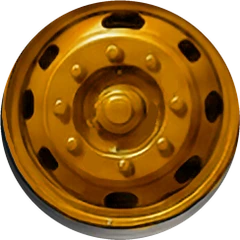
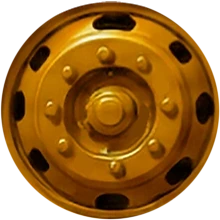
About: tyres roll with fixed light

diff --git a/about.html b/about.html
@@ -86,15 +86,17 @@
             <span class="cboard__t">Enough of scroll?<br>Let&rsquo;s roll!</span>
             <a class="cb cb--w" href="mailto:ashfaquesalahudeen333@gmail.com" style="--l:14.2%;--cy:36.3%" aria-label="Email"><img src="assets/about/connect/email-normal.webp" alt=""><img class="h" src="assets/about/connect/email-hover.webp" alt=""></a>
             <a class="cb cb--w" href="https://wa.me/9496625822" target="_blank" rel="noopener" style="--l:51.4%;--cy:36.3%" aria-label="WhatsApp"><img src="assets/about/connect/whatsapp-normal.webp" alt=""><img class="h" src="assets/about/connect/whatsapp-hover.webp" alt=""></a>
-            <a class="cb" href="https://www.instagram.com/faque.it" target="_blank" rel="noopener" style="--l:13.5%;--cy:51%" aria-label="Instagram"><img src="assets/about/connect/insta-normal.webp" alt=""><img class="h" src="assets/about/connect/insta-hover.webp" alt=""></a>
-            <a class="cb" href="https://www.behance.net/ashfaqusalahud" target="_blank" rel="noopener" style="--l:38.1%;--cy:51%" aria-label="Behance"><img src="assets/about/connect/behance-normal.webp" alt=""><img class="h" src="assets/about/connect/behance-hover.webp" alt=""></a>
-            <a class="cb" href="https://www.linkedin.com/in/ashfaquesalahudeen" target="_blank" rel="noopener" style="--l:62.7%;--cy:51%" aria-label="LinkedIn"><img src="assets/about/connect/linkedin-normal.webp" alt=""><img class="h" src="assets/about/connect/linkedin-hover.webp" alt=""></a>
+            <a class="cb" href="https://www.instagram.com/faque.it" target="_blank" rel="noopener" style="--l:14.2%;--cy:51%" aria-label="Instagram"><img src="assets/about/connect/insta-normal.webp" alt=""><img class="h" src="assets/about/connect/insta-hover.webp" alt=""></a>
+            <a class="cb" href="https://www.behance.net/ashfaqusalahud" target="_blank" rel="noopener" style="--l:39%;--cy:51%" aria-label="Behance"><img src="assets/about/connect/behance-normal.webp" alt=""><img class="h" src="assets/about/connect/behance-hover.webp" alt=""></a>
+            <a class="cb" href="https://www.linkedin.com/in/ashfaquesalahudeen" target="_blank" rel="noopener" style="--l:63.8%;--cy:51%" aria-label="LinkedIn"><img src="assets/about/connect/linkedin-normal.webp" alt=""><img class="h" src="assets/about/connect/linkedin-hover.webp" alt=""></a>
           </div>
         </div>
         <div class="about__road"><div class="about__truck"><div class="truckbox">
           <img class="truckbox__body" src="assets/about/truck.webp" alt="Ashfaque waving from the cab of a painted truck whose load carries his education, experience, positions of responsibility and achievements, with a toolbox of design apps on the side" width="2400" height="967" decoding="async">
-          <img class="wheel wheel--f" src="assets/about/wheel-f.webp" alt="" aria-hidden="true" decoding="async">
-          <img class="wheel wheel--r" src="assets/about/wheel-r.webp" alt="" aria-hidden="true" decoding="async">
+          <img class="wheel wheel--tf" src="assets/about/tyre-f-even.webp" alt="" aria-hidden="true" decoding="async">
+          <img class="wheel-light wheel--tf" src="assets/about/tyre-f-light.webp" alt="" aria-hidden="true" decoding="async">
+          <img class="wheel wheel--tr" src="assets/about/tyre-r-even.webp" alt="" aria-hidden="true" decoding="async">
+          <img class="wheel-light wheel--tr" src="assets/about/tyre-r-light.webp" alt="" aria-hidden="true" decoding="async">
           <div class="tools" id="tools">
             <button class="tb" type="button" aria-expanded="false" aria-controls="ticons" aria-label="Toolbox: the software I work with"><img src="assets/about/toolbox-hover.webp" alt="" decoding="async"></button>
             <ul class="ticons" id="ticons" aria-label="Software I work with">
@@ -105,7 +107,7 @@
             <li style="--i:4;--x:1381;--y:628"><img src="assets/about/icons/adobe-after-effects.webp" alt="" loading="lazy" decoding="async"><span>Adobe After Effects</span></li>
             <li style="--i:5;--x:1455;--y:628"><img src="assets/about/icons/adobe-indesign.webp" alt="" loading="lazy" decoding="async"><span>Adobe InDesign</span></li>
             <li style="--i:6;--x:1085;--y:725"><img src="assets/about/icons/fontlab.webp" alt="" loading="lazy" decoding="async"><span>FontLab</span></li>
-            <li style="--i:7;--x:1159;--y:725"><img src="assets/about/icons/framer.webp" alt="" loading="lazy" decoding="async"><span>Framer</span></li>
+            <li style="--i:7;--x:1159;--y:725"><img src="assets/about/icons/sketchup.webp" alt="" loading="lazy" decoding="async"><span>SketchUp</span></li>
             <li style="--i:8;--x:1233;--y:725"><img src="assets/about/icons/microsoft-office.webp" alt="" loading="lazy" decoding="async"><span>Microsoft Office</span></li>
             <li style="--i:9;--x:1307;--y:725"><img src="assets/about/icons/miro.webp" alt="" loading="lazy" decoding="async"><span>Miro</span></li>
             <li style="--i:10;--x:1381;--y:725"><img src="assets/about/icons/procreate.webp" alt="" loading="lazy" decoding="async"><span>Procreate</span></li>

diff --git a/css/style.css b/css/style.css
@@ -451,8 +451,15 @@ a { color: inherit; text-decoration: none; -webkit-tap-highlight-color: transpar
 .truckbox { --k: calc(var(--tw) / 2400); position: relative; }
 .truckbox__body { width: 100%; height: auto; display: block; }
 .wheel { position: absolute; height: auto; aspect-ratio: 1; border-radius: 50%; rotate: calc((var(--ap) + var(--ep) * 1.1) * -1500deg); }
-.wheel--f { left: 13.292%; top: 72.492%; width: 6.75%; }
-.wheel--r { left: 68.98%; top: 72.492%; width: 6.75%; }
+/* each alloy image is cut as a circle centred on its hub, and placed on the tyre's hub, so it spins true */
+.wheel--f { left: 13.496%; top: 72.234%; width: 6.25%; }
+.wheel--r { left: 69.158%; top: 72.296%; width: 6.25%; }
+/* whole tyre + alloy turning together (cut from the truck art, centred on the hub).
+   To go back to alloy-only: in about.html use wheel--f / wheel--r with wheel-f.webp / wheel-r.webp */
+.wheel--tf { left: 11.371%; top: 66.960%; width: 10.5%; }
+.wheel--tr { left: 67.033%; top: 67.022%; width: 10.5%; }
+/* the tyre's light & shadow sit on a layer that does NOT turn, so the shine stays put while the tread rolls */
+.wheel-light { position: absolute; height: auto; aspect-ratio: 1; pointer-events: none; }
 /* interactive toolbox: brightens on hover and the apps come out and line up beside it */
 .tools { position: absolute; inset: 0; pointer-events: none; }
 .tb { position: absolute; left: 35.14%; top: 66.69%; width: 8.89%; aspect-ratio: 320 / 210; padding: 0; border: 0; background: none; cursor: pointer; pointer-events: auto; -webkit-tap-highlight-color: transparent; border-radius: 4%; }
@@ -627,14 +634,14 @@ a { color: inherit; text-decoration: none; -webkit-tap-highlight-color: transpar
 .about.passed .cboard__links { pointer-events: auto; }
 .cboard__links { pointer-events: none; }
 .cboard__t { position: absolute; left: 0; width: 100%; top: 20.5%; translate: 0 -50%; text-align: center; font: 800 4.3cqw/1.12 "Anek Latin", "Arial Narrow", system-ui, sans-serif; font-stretch: 125%; text-transform: uppercase; color: #3b1f0b; letter-spacing: .02em; }
-.cb { position: absolute; left: var(--l); top: var(--cy); translate: 0 -50%; width: 22.6%; display: block; -webkit-tap-highlight-color: transparent; transition: transform .15s cubic-bezier(.2,.8,.2,1); }
+.cb { position: absolute; left: var(--l); top: var(--cy); translate: 0 -50%; width: 22.8%; display: block; -webkit-tap-highlight-color: transparent; }
 .cb--w { width: 35.2%; }
 .cb img { display: block; width: 100%; height: auto; }
 .cb .h { position: absolute; inset: 0; opacity: 0; }
+.cb img { transition: opacity .15s ease; }
 .cb:hover .h, .cb:focus-visible .h, .cb:active .h { opacity: 1; }
 .cb:hover > img:not(.h), .cb:focus-visible > img:not(.h), .cb:active > img:not(.h) { opacity: 0; }
-.cb:hover, .cb:focus-visible { transform: translateY(-2%) scale(1.04); outline: none; }
-.cb:active { transform: scale(.98); }
+.cb:focus-visible { outline: none; }   /* hover only swaps to the hover artwork: no move, no resize */
 @media (max-width: 900px) { .cboard { width: min(78vw, 52svh); bottom: 24svh; } }
 @media (prefers-reduced-motion: reduce) { .cboard__b--stop { opacity: 0; } .cboard__c, .cboard__links { opacity: 1; pointer-events: auto; } }
 

diff --git a/js/main.js b/js/main.js
@@ -93,22 +93,34 @@
     }, { threshold: 0.2 }).observe(box);
   }
 
-  /* ---- 5. about page: truck drives in as you scroll ---- */
+  /* ---- 5. about page: truck drives in as you scroll ----
+     The truck follows the scroll with a little inertia (it glides to where the scroll is instead of snapping),
+     rolls in over 0 – 45 %, parks briefly (45 – 51 %) and then pulls away again over 51 – 100 %. */
   const about = document.querySelector('.about');
   if (about && !reduce) {
-    let t = false;
-    const upd = () => {
-      t = false;
+    const IN = 0.45, OUT = 0.51, FOLLOW = 6;        // FOLLOW: higher = snappier, lower = floatier
+    let target = 0, cur = 0, raf = 0, last = 0;
+    const measure = () => {
       const room = about.offsetHeight - innerHeight || 1;
-      const p = Math.min(Math.max(-about.getBoundingClientRect().top / room, 0), 1);
-      const pin = Math.min(p / 0.42, 1), pout = Math.min(Math.max((p - 0.55) / 0.45, 0), 1);   // 0 – 42 %: truck rolls in · 42 – 55 %: parked (reading) · 55 – 100 %: drives on out of the left edge
-      about.style.setProperty('--ap', (1 - Math.pow(1 - pin, 2)).toFixed(4));
-      about.style.setProperty('--ep', (pout * pout * (3 - 2 * pout)).toFixed(4));   // eases in and out
-      about.classList.toggle('passed', p >= 0.5);   // truck is parked in front of the board here, so the swap is hidden behind it
+      target = Math.min(Math.max(-about.getBoundingClientRect().top / room, 0), 1);
     };
-    addEventListener('scroll', () => { if (!t) { t = true; requestAnimationFrame(upd); } }, { passive: true });
-    addEventListener('resize', upd);
-    upd();
+    const apply = p => {
+      const pin = Math.min(p / IN, 1), pout = Math.min(Math.max((p - OUT) / (1 - OUT), 0), 1);
+      about.style.setProperty('--ap', (1 - Math.pow(1 - pin, 1.6)).toFixed(4));   // gentle slow-down into the stop
+      about.style.setProperty('--ep', Math.pow(pout, 1.5).toFixed(4));            // gentle pull-away, no long dead spot
+      about.classList.toggle('passed', p >= (IN + OUT) / 2);   // truck is parked in front of the board here, so the swap is hidden behind it
+    };
+    const step = t => {
+      const dt = Math.min(Math.max((t - last) / 1000, 0), 0.05); last = t;
+      cur += (target - cur) * (1 - Math.exp(-dt * FOLLOW));
+      if (Math.abs(target - cur) < 0.0004) cur = target;
+      apply(cur);
+      raf = cur !== target ? requestAnimationFrame(step) : 0;
+    };
+    const kick = () => { measure(); if (!raf) { last = performance.now(); raf = requestAnimationFrame(step); } };
+    addEventListener('scroll', kick, { passive: true });
+    addEventListener('resize', kick);
+    measure(); cur = target; apply(cur);      // reloading mid-page: start where the scroll already is
   }
 
   /* ---- 6. things that hang from the nav bar (lemon + chilli, gold tassels, the blue fringe) ----
